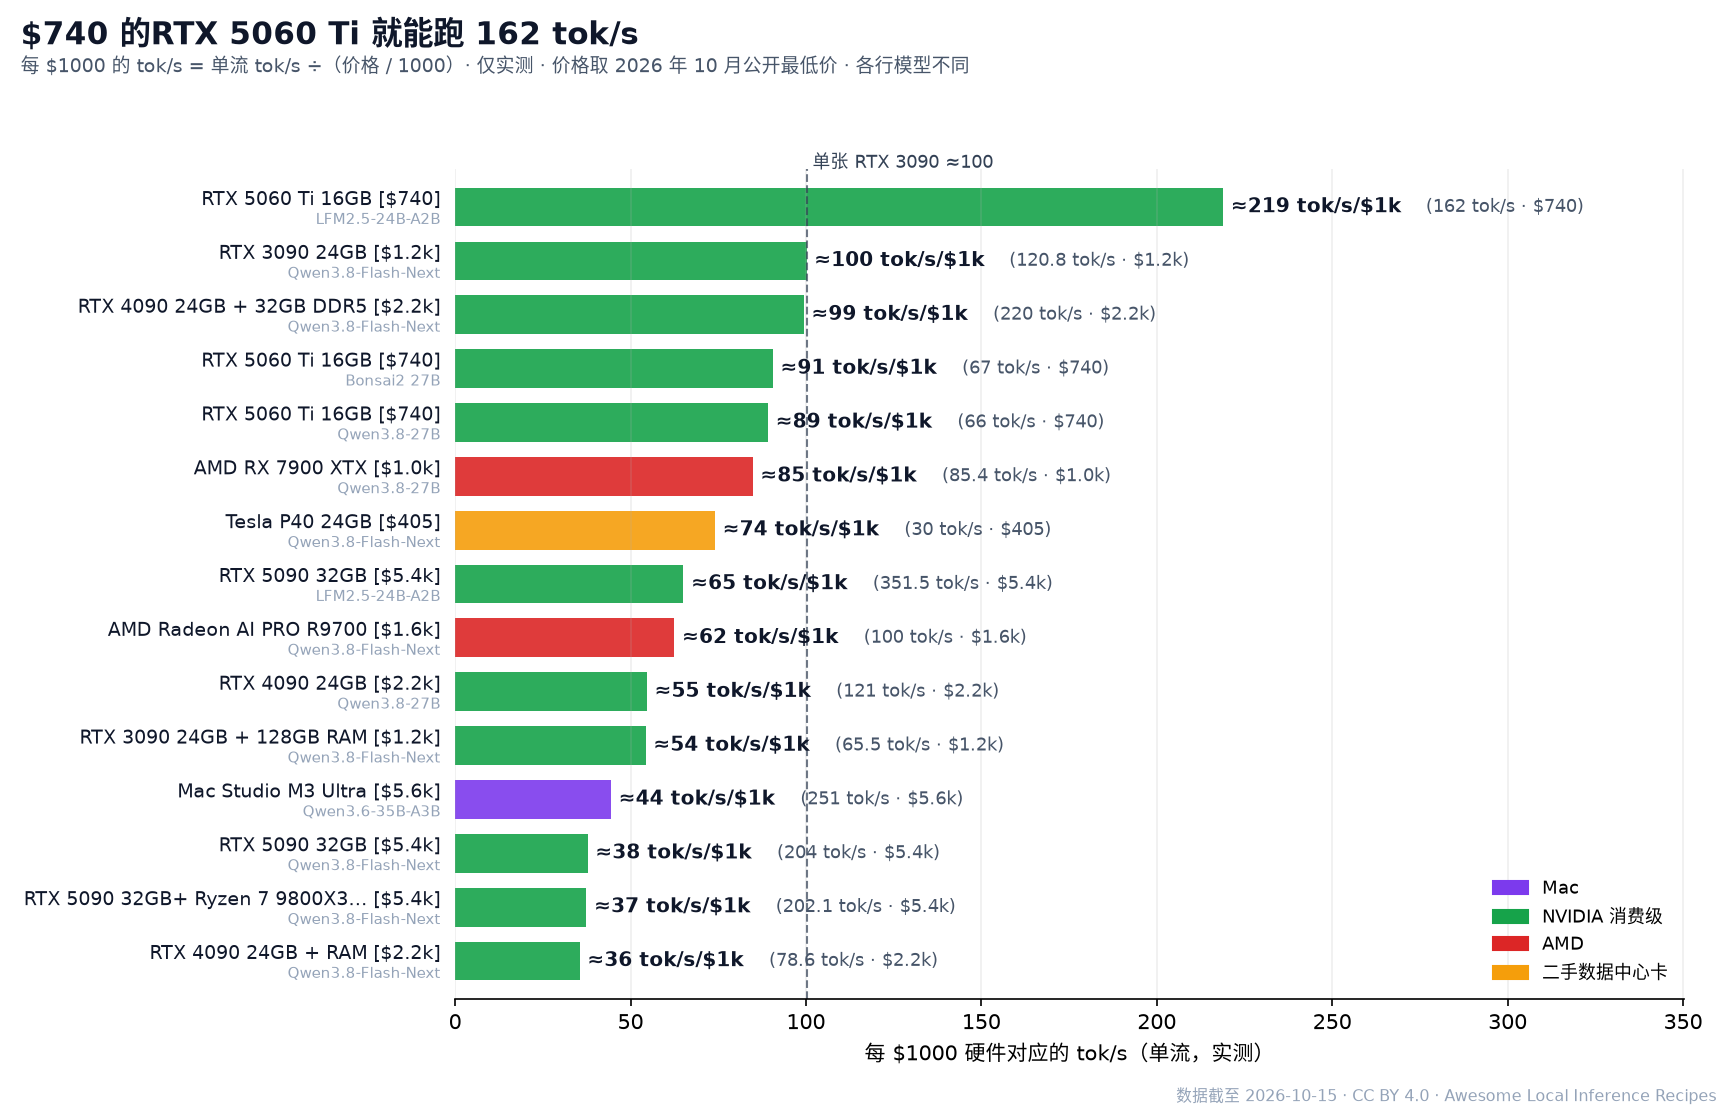
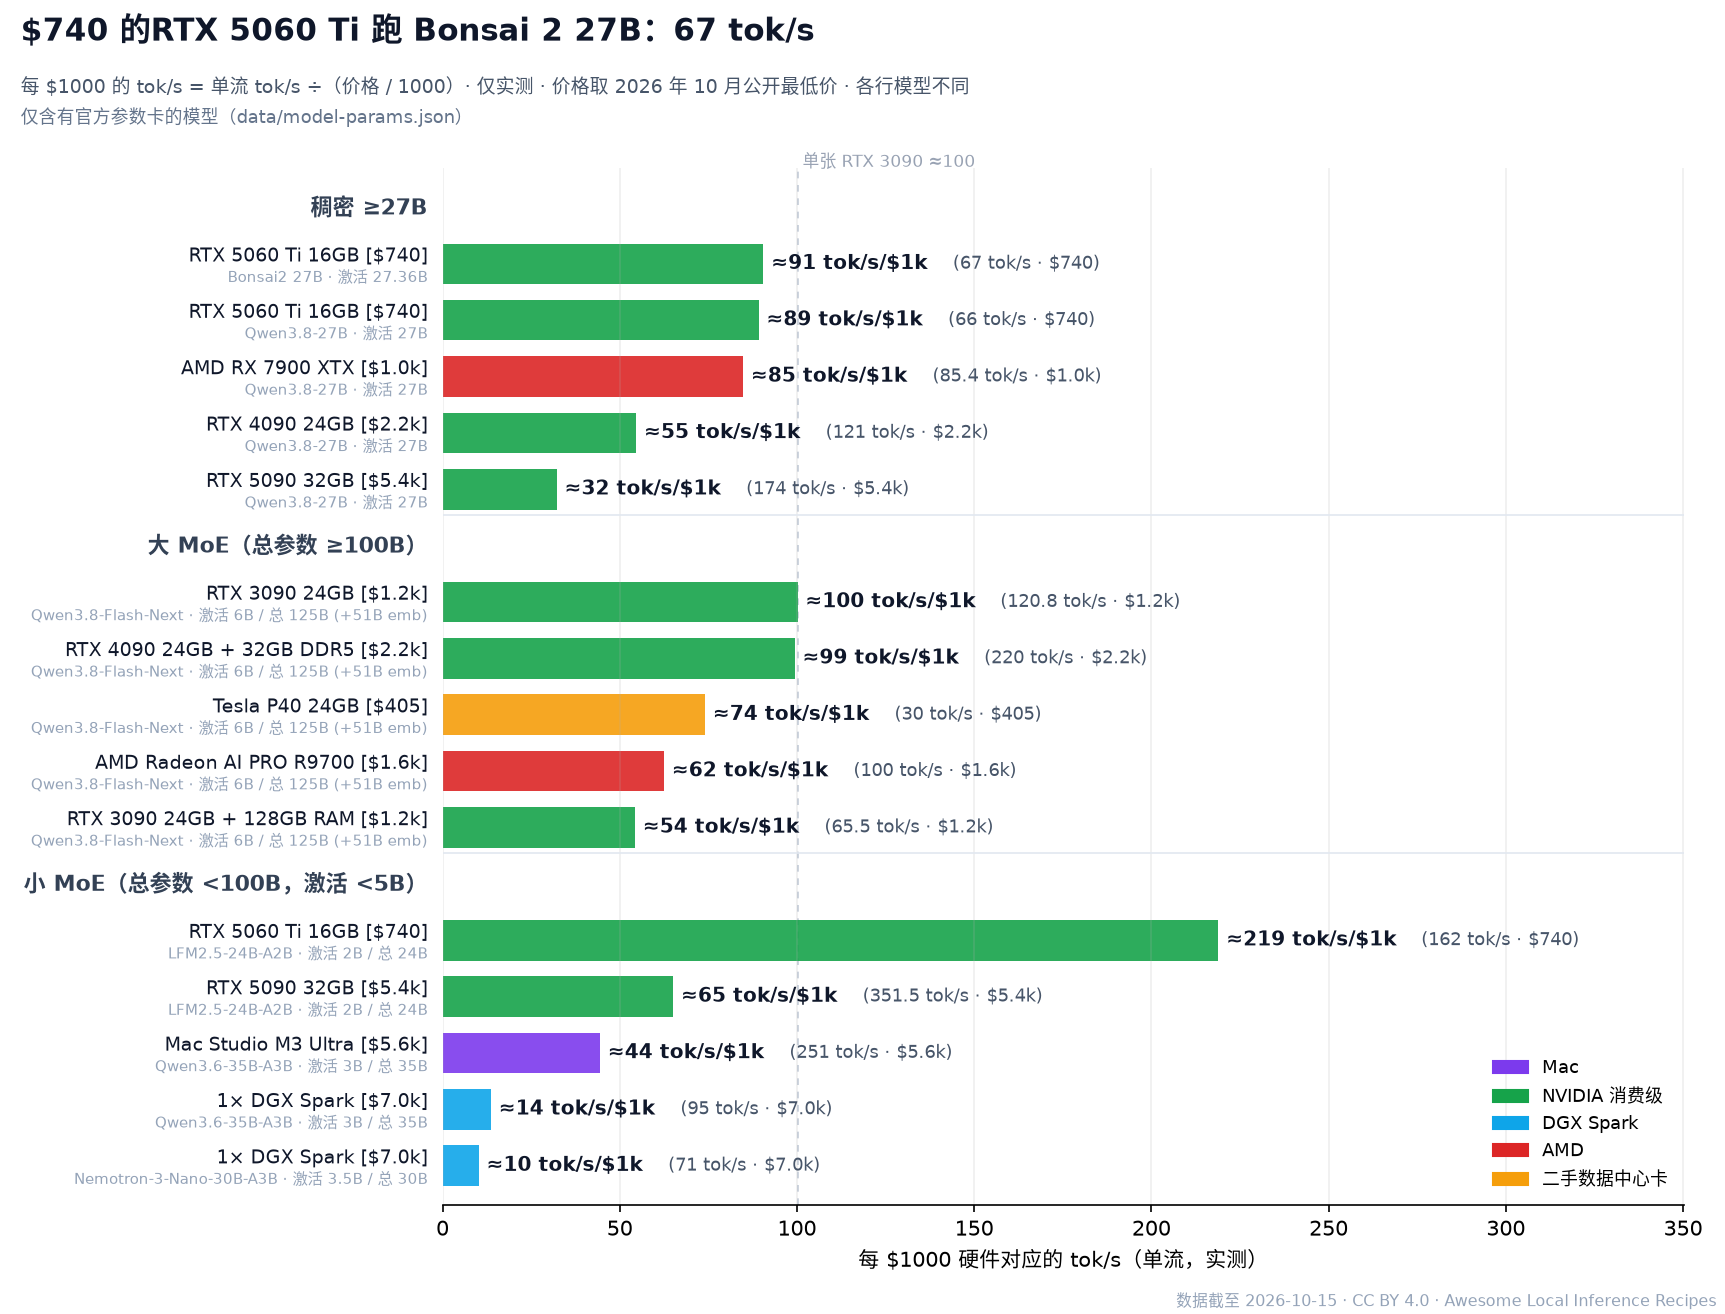
hero v4: group by model size with active params (data/model-params.json + test), title from Dense #1 with model name, Bonsai/REAP regex fixes, Mid MoE thresholds, official-cards note, Flash-Next 125B (+51B emb), baseline #b6c0cf α.8

Changed region(s): [[0.0, 0.1225, 1.0, 1.0], [0.0, 0.0, 0.553, 0.0919], [0.8296, 0.7045, 0.9217, 0.7351]]

diff --git a/scripts/gen_hero.py b/scripts/gen_hero.py
@@ -1,6 +1,6 @@
 #!/usr/bin/env python3
 """Render README charts (en / zh-CN / ja). Needs matplotlib + a CJK font (Noto Sans CJK) for zh/ja labels.
-- docs/hero{suf}.png          top 15 measured text setups ranked by tok/s per $1,000 of hardware
+- docs/hero{suf}.png          top measured text setups per model-size group (data/model-params.json), ranked by tok/s per $1,000 of hardware
 - docs/budget-tiers{suf}.png  fastest text setup per README budget tier (measured vs claimed)
 Data: text recipes with tok_s and hardware_cost_usd; deduped per hardware+model (measured preferred, then best tok/s).
 Not part of the CI up-to-date check (PNG bytes vary across matplotlib/font versions). Run: python3 scripts/gen_hero.py"""
@@ -56,32 +56,63 @@ HT={'en':dict(t='A {p} {u}{hw} runs {tok:g} tok/s',used='used ',
     'ja':dict(t='{p} の{u}{hw} で {tok:g} tok/s',used='中古 ',
       sub='$1,000 あたり tok/s = 1 ストリーム tok/s ÷（価格 / 1000）· 実測のみ · 2026 年 10 月の公開最安価格 · 行ごとにモデルは異なる',
       base='RTX 3090 1 枚 ≈{v:.0f}',note='データ時点 {d} · CC BY 4.0 · Awesome Local Inference Recipes')}
+PARAMS=json.load(open(R/'data/model-params.json'))['models']
+def params(r):
+    for m in PARAMS:
+        if re.search(m['match'],r['model']):
+            return None if m.get('exclude') and re.search(m['exclude'],r['model']) else m
+    return None
+def fmtb(x): return f"{x:g}B"
+GROUPS=[('dense',lambda m:m['arch']=='dense' and m['total_b']>=27),
+        ('big',lambda m:m['arch']=='moe' and m['total_b']>=100),
+        ('mid',lambda m:m['arch']=='moe' and m['total_b']<100 and m['active_b']>=5),
+        ('small',lambda m:m['arch']=='moe' and m['total_b']<100 and m['active_b']<5)]
+GT={'en':dict(dense='Dense ≥27B',big='Big MoE (≥100B total)',mid='Mid MoE (<100B total, ≥5B active)',small='Small MoE (<100B total, <5B active)',act='{a} active',tot='{a} active / {t} total',
+              t='{p} {u}{hw} runs {m} at {tok:g} tok/s',only='Only models with official parameter cards (data/model-params.json)'),
+    'zh-CN':dict(dense='稠密 ≥27B',big='大 MoE（总参数 ≥100B）',mid='中 MoE（总参数 <100B，激活 ≥5B）',small='小 MoE（总参数 <100B，激活 <5B）',act='激活 {a}',tot='激活 {a} / 总 {t}',
+              t='{p} 的{u}{hw} 跑 {m}：{tok:g} tok/s',only='仅含有官方参数卡的模型（data/model-params.json）'),
+    'ja':dict(dense='Dense ≥27B',big='大型 MoE（総パラメータ ≥100B）',mid='中型 MoE（総 <100B、アクティブ ≥5B）',small='小型 MoE（総 <100B、アクティブ <5B）',act='アクティブ {a}',tot='アクティブ {a} / 総 {t}',
+              t='{p} の{u}{hw} で {m} が {tok:g} tok/s',only='公式パラメータカードのあるモデルのみ（data/model-params.json）')}
+PER=5
 def hero(lang):
-    t=TX[lang]; h=HT[lang]
-    meas=[r for r in U if r['_m']]; top=sorted(meas,key=lambda r:(-r['_v'],r['id']))[:15]
-    first=top[0]; top=top[::-1]
-    fig,ax=plt.subplots(figsize=(11.5,7.4),dpi=150)
-    vmax=max(r['_v'] for r in top)
-    for i,r in enumerate(top):
-        ax.barh(i,r['_v'],color=FAM[r['hardware_family']],alpha=.9,height=.72)
-        ax.text(r['_v']+vmax*.01,i,f"≈{r['_v']:.0f} tok/s/$1k",va='center',fontsize=9.5,fontweight='bold',color='#0f172a')
-        ax.annotate(f"({r['tok_s']:g} tok/s · {money(r['hardware_cost_usd'])})",(r['_v']+vmax*.01,i),xytext=(len(f"≈{r['_v']:.0f} tok/s/$1k")*6.4+4,0),textcoords='offset points',va='center',fontsize=8.5,color='#475569')
-        ax.text(-.012,i+.13,f"{clean(r['hardware'],30)} [{money(r['hardware_cost_usd'])}]",transform=ax.get_yaxis_transform(),ha='right',va='center',fontsize=9.2,color='#0f172a')
-        ax.text(-.012,i-.24,clean(r['model'],34),transform=ax.get_yaxis_transform(),ha='right',va='center',fontsize=7.3,color='#94a3b8')
-    ax.set_yticks([]); ax.set_ylim(-.7,len(top)-.3)
+    t=TX[lang]; h=HT[lang]; g=GT[lang]
+    meas=[r for r in U if r['_m'] and params(r)]
+    rows=[]  # (kind, payload)
+    for key,ok in GROUPS:
+        rs=sorted([r for r in meas if ok(params(r))],key=lambda r:(-r['_v'],r['id']))[:PER]
+        if rs: rows.append(('h',g[key])); rows+= [('r',r) for r in rs]
+    dense=[x for k,x in rows if k=='r' and params(x)['arch']=='dense']
+    first=min(dense or [x for k,x in rows if k=='r'],key=lambda r:(-r['_v'],r['id']))
+    n=len(rows); H=1.2+.42*n; fig,ax=plt.subplots(figsize=(11.5,H),dpi=150)
+    vmax=max(x['_v'] for k,x in rows if k=='r')
+    for i,(k,x) in enumerate(rows):
+        y=n-1-i
+        if k=='h':
+            ax.text(-.012,y,x,transform=ax.get_yaxis_transform(),ha='right',va='center',fontsize=10.5,fontweight='bold',color='#334155')
+            if i: ax.axhline(y+.55,color='#e2e8f0',lw=.8)
+            continue
+        r=x; m=params(r)
+        ax.barh(y,r['_v'],color=FAM[r['hardware_family']],alpha=.9,height=.72)
+        ax.text(r['_v']+vmax*.01,y,f"≈{r['_v']:.0f} tok/s/$1k",va='center',fontsize=9.5,fontweight='bold',color='#0f172a')
+        ax.annotate(f"({r['tok_s']:g} tok/s · {money(r['hardware_cost_usd'])})",(r['_v']+vmax*.01,y),xytext=(len(f"≈{r['_v']:.0f} tok/s/$1k")*6.4+4,0),textcoords='offset points',va='center',fontsize=8.5,color='#475569')
+        ax.text(-.012,y+.13,f"{clean(r['hardware'],30)} [{money(r['hardware_cost_usd'])}]",transform=ax.get_yaxis_transform(),ha='right',va='center',fontsize=9.2,color='#0f172a')
+        pa=g['act'].format(a=fmtb(m['active_b'])) if m['arch']=='dense' else g['tot'].format(a=fmtb(m['active_b']),t=m.get('total_label') or fmtb(m['total_b']))
+        ax.text(-.012,y-.24,f"{clean(r['model'],26)} · {pa}",transform=ax.get_yaxis_transform(),ha='right',va='center',fontsize=7.3,color='#94a3b8')
+    ax.set_yticks([]); ax.set_ylim(-.7,n-.3)
     b=[r for r in meas if re.fullmatch(r'(单 )?RTX 3090( 24GB)?',clean(r['hardware'],80))]
     if b:
-        bv=max(r['_v'] for r in b); ax.axvline(bv,ls='--',lw=1,color='#334155',alpha=.7)
-        ax.text(bv,len(top)-.35,' '+h['base'].format(v=bv),fontsize=8.5,color='#334155',va='bottom')
+        bv=max(r['_v'] for r in b); ax.axvline(bv,ls=(0,(4,4)),lw=.8,color='#b6c0cf',alpha=.8,zorder=0)
+        ax.text(bv,n-.35,' '+h['base'].format(v=bv),fontsize=8,color='#98a2b3',va='bottom')
     ax.set_xlim(0,vmax*1.6); ax.set_xlabel(t['h_x'],fontsize=10)
     hw=clean(first['hardware'],40); hw=re.sub(r'^(单 )','',hw)
-    fig.suptitle(h['t'].format(p=money(first['hardware_cost_usd']),u=h['used'] if _used(first) else '',hw=re.sub(r' \d+GB$','',hw),tok=first['tok_s']),x=.012,y=.985,ha='left',fontsize=15,fontweight='bold',color='#0f172a')
-    fig.text(.012,.935,h['sub'],ha='left',fontsize=9,color='#475569')
-    fig.text(.995,.008,h['note'].format(d=_asof()),ha='right',fontsize=7.5,color='#94a3b8')
+    fig.suptitle(g['t'].format(p=money(first['hardware_cost_usd']),u=h['used'] if _used(first) else '',hw=re.sub(r' \d+GB$','',hw),m=params(first)['label'],tok=first['tok_s']),x=.012,y=.99,ha='left',fontsize=15,fontweight='bold',color='#0f172a')
+    fig.text(.012,1-.62/H,h['sub'],ha='left',fontsize=9,color='#475569')
+    fig.text(.012,1-.82/H,g['only'],ha='left',fontsize=8.5,color='#64748b')
+    fig.text(.995,.006,h['note'].format(d=_asof()),ha='right',fontsize=7.5,color='#94a3b8')
     style(ax); ax.spines['left'].set_visible(False); ax.grid(axis='x',alpha=.2)
-    fams=[k for k in FAM if any(r['hardware_family']==k for r in top)]
+    fams=[k for k in FAM if any(x['hardware_family']==k for kk,x in rows if kk=='r')]
     ax.legend(handles=[Patch(color=FAM[k],label=t['fam'][k]) for k in fams],frameon=False,loc='lower right',fontsize=8.5,ncol=1)
-    fig.tight_layout(rect=(0,.02,1,.935))
+    fig.tight_layout(rect=(0,.015,1,1-.9/H)); fig.subplots_adjust(top=1-1.12/H)
     return fig
 def tiers(lang):
     t=TX[lang]; fig,ax=plt.subplots(figsize=(11,5.4),dpi=150); y=0; ticks=[]; xmax=0; used=set()

diff --git a/scripts/gen_readme.py b/scripts/gen_readme.py
@@ -104,7 +104,7 @@ HL = {
    hd='### Headline numbers', th='| Record | Model · engine | Hardware | Result | Source |',
    lab={'mac':'Fastest on a Mac','5090':'Fastest on one RTX 5090','amd':'Fastest on AMD','dc':'Used datacenter GPUs','spark':'Fastest on one DGX Spark','cheap':'Cheapest rig in the list'},
    note='Single-stream generation speed, copied from each source; prices are the lowest published hardware price. ✅ = measured by the poster.',
-   alt='Bar chart: top 15 measured text setups ranked by tok/s per $1,000 of hardware, colored by hardware family', cost='≈ ${c:,}'),
+   alt='Bar chart: top measured text setups per model-size group (dense ≥27B; big MoE ≥100B total; mid MoE <100B total, ≥5B active; small MoE <100B total, <5B active; with active parameters; only models with official parameter cards), ranked by tok/s per $1,000 of hardware, colored by hardware family', cost='≈ ${c:,}'),
  'zh': dict(h1='本地推理配方精选', tag='你的硬件到底能跑多快？{n} 条有出处的本地 AI 配方，从 {lo:,} 美元的显卡到 3 万美元的整机。',
    lang='<a href="README.md">English</a> · <b>简体中文</b> · <a href="README.ja.md">日本語</a>',
    nav=[('在线配方库','explore.html'),('配方指南','recipes/README.zh-CN.md'),('入门指南','docs/getting-started.zh-CN.md'),('提交配方','submit.html')],
@@ -112,7 +112,7 @@ HL = {
    hd='### 亮点数据', th='| 记录 | 模型 · 引擎 | 硬件 | 结果 | 来源 |',
    lab={'mac':'Mac 最快','5090':'单张 RTX 5090 最快','amd':'AMD 最快','dc':'二手数据中心卡','spark':'单台 DGX Spark 最快','cheap':'最便宜的配置'},
    note='单路生成速度，均摘自来源；价格为公开的最低硬件价格。✅ = 发帖人实测。',
-   alt='条形图：按每 $1000 硬件对应 tok/s 排名的实测文字配置前 15 名，按硬件类别着色', cost='约 ${c:,}'),
+   alt='条形图：按模型规模分组（稠密 ≥27B；大 MoE 总参数 ≥100B；中 MoE 总参数 <100B、激活 ≥5B；小 MoE 激活 <5B；标注激活参数；仅含有官方参数卡的模型），按每 $1000 硬件对应 tok/s 排名的实测文字配置，按硬件类别着色', cost='约 ${c:,}'),
  'ja': dict(h1='ローカル推論レシピ集', tag='あなたのハードウェアで、実際どれくらいの速度が出る？出典付きのローカル AI レシピ {n} 件。{lo:,} ドルの GPU から 3 万ドルの構成まで。',
    lang='<a href="README.md">English</a> · <a href="README.zh-CN.md">简体中文</a> · <b>日本語</b>',
    nav=[('エクスプローラー','explore.html'),('レシピガイド','recipes/README.ja.md'),('はじめに','docs/getting-started.ja.md'),('レシピを投稿','submit.html')],
@@ -120,7 +120,7 @@ HL = {
    hd='### 注目の記録', th='| 記録 | モデル · エンジン | ハードウェア | 結果 | 出典 |',
    lab={'mac':'Mac で最速','5090':'RTX 5090 1 枚で最速','amd':'AMD で最速','dc':'中古データセンター GPU','spark':'DGX Spark 1 台で最速','cheap':'いちばん安い構成'},
    note='1 ストリームの生成速度で、いずれも出典からの引用です。価格は公開されている最安のハードウェア価格。✅ = 投稿者本人の実測。',
-   alt='棒グラフ：ハードウェア $1,000 あたりの tok/s で並べた実測テキスト構成トップ 15（ハードウェア分類で色分け）', cost='約 {c:,} ドル'),
+   alt='棒グラフ：モデル規模別（Dense ≥27B・大型 MoE 総 ≥100B・中型 MoE 総 <100B／アクティブ ≥5B・小型 MoE アクティブ <5B、アクティブパラメータ表示、公式パラメータカードのあるモデルのみ）に、ハードウェア $1,000 あたりの tok/s で並べた実測テキスト構成（ハードウェア分類で色分け）', cost='約 {c:,} ドル'),
 }
 PNOTE = {'x-006':{'en':'card only, excl. 256GB RAM','zh':'仅显卡，不含 256GB 内存','ja':'GPU のみ、256GB RAM 別'},
  'text-113':{'en':'base config price; test machine memory not stated','zh':'起步配置价格，原帖未注明测试机内存','ja':'最小構成価格、検証機のメモリは不明'}}

diff --git a/tests/test_model_params.py b/tests/test_model_params.py
@@ -1,0 +1,30 @@
+import json, re, unittest
+from pathlib import Path
+R = Path(__file__).resolve().parent.parent
+class ModelParams(unittest.TestCase):
+    def setUp(self):
+        self.P = json.loads((R / 'data/model-params.json').read_text())['models']
+        self.D = json.loads((R / 'data/recipes.json').read_text())
+    def match(self, model):
+        for m in self.P:
+            if re.search(m['match'], model):
+                return None if m.get('exclude') and re.search(m['exclude'], model) else m
+    def test_fields(self):
+        for m in self.P:
+            self.assertIn(m['arch'], ('dense', 'moe'), m['label'])
+            self.assertTrue(m['source'].startswith('https://huggingface.co/'), m['label'])
+            self.assertGreater(m['total_b'], 0); self.assertGreater(m['active_b'], 0)
+            self.assertLessEqual(m['active_b'], m['total_b'], m['label'])
+            if m['arch'] == 'dense': self.assertEqual(m['active_b'], m['total_b'], m['label'])
+            re.compile(m['match']); m.get('exclude') and re.compile(m['exclude'])
+    def test_known_traps(self):
+        self.assertIsNone(self.match('Bonsai 27B 1-bit'))
+        self.assertIsNone(self.match('DeepSeek-V4.1-Flash（REAP 256 专家剪枝）'))
+        self.assertEqual(self.match('Bonsai2 27B')['label'], 'Bonsai 2 27B')
+        self.assertEqual(self.match('DeepSeek-V4-Flash (0731)')['label'], 'DeepSeek-V4-Flash')
+    def test_hero_rows_covered_or_listed(self):
+        # every measured priced text row either maps to a card or is knowingly excluded
+        miss = sorted({r['model'] for r in self.D if r['category'] == 'text' and r['tok_s'] and r['hardware_cost_usd']
+                       and r['source_level'] == '实测' and not self.match(r['model'])})
+        self.assertTrue(all(re.search(r'REAP', m) for m in miss), miss)
+if __name__ == '__main__': unittest.main()

diff --git a/README.ja.md b/README.ja.md
@@ -8,7 +8,7 @@
 
 <p align="center"><a href="https://raytone-lab.github.io/Awesome-local-inference-recipe/explore.html"><b>エクスプローラー</b></a> · <a href="recipes/README.ja.md"><b>レシピガイド</b></a> · <a href="docs/getting-started.ja.md"><b>はじめに</b></a> · <a href="https://raytone-lab.github.io/Awesome-local-inference-recipe/submit.html"><b>レシピを投稿</b></a></p>
 
-<p align="center"><img src="docs/hero.ja.png" width="860" alt="棒グラフ：ハードウェア $1,000 あたりの tok/s で並べた実測テキスト構成トップ 15（ハードウェア分類で色分け）"></p>
+<p align="center"><img src="docs/hero.ja.png" width="860" alt="棒グラフ：モデル規模別（Dense ≥27B・大型 MoE 総 ≥100B・中型 MoE 総 <100B／アクティブ ≥5B・小型 MoE アクティブ <5B、アクティブパラメータ表示、公式パラメータカードのあるモデルのみ）に、ハードウェア $1,000 あたりの tok/s で並べた実測テキスト構成（ハードウェア分類で色分け）"></p>
 
 ### X tok/s ってどれくらい速い？
 

diff --git a/README.zh-CN.md b/README.zh-CN.md
@@ -8,7 +8,7 @@
 
 <p align="center"><a href="https://raytone-lab.github.io/Awesome-local-inference-recipe/explore.html"><b>在线配方库</b></a> · <a href="recipes/README.zh-CN.md"><b>配方指南</b></a> · <a href="docs/getting-started.zh-CN.md"><b>入门指南</b></a> · <a href="https://raytone-lab.github.io/Awesome-local-inference-recipe/submit.html"><b>提交配方</b></a></p>
 
-<p align="center"><img src="docs/hero.zh-CN.png" width="860" alt="条形图：按每 $1000 硬件对应 tok/s 排名的实测文字配置前 15 名，按硬件类别着色"></p>
+<p align="center"><img src="docs/hero.zh-CN.png" width="860" alt="条形图：按模型规模分组（稠密 ≥27B；大 MoE 总参数 ≥100B；中 MoE 总参数 <100B、激活 ≥5B；小 MoE 激活 <5B；标注激活参数；仅含有官方参数卡的模型），按每 $1000 硬件对应 tok/s 排名的实测文字配置，按硬件类别着色"></p>
 
 ### X tok/s 到底有多快？
 

diff --git a/README.md b/README.md
@@ -8,7 +8,7 @@
 
 <p align="center"><a href="https://raytone-lab.github.io/Awesome-local-inference-recipe/explore.html"><b>Explore live</b></a> · <a href="recipes/README.md"><b>Recipe guides</b></a> · <a href="docs/getting-started.md"><b>Getting started</b></a> · <a href="https://raytone-lab.github.io/Awesome-local-inference-recipe/submit.html"><b>Submit a recipe</b></a></p>
 
-<p align="center"><img src="docs/hero.png" width="860" alt="Bar chart: top 15 measured text setups ranked by tok/s per $1,000 of hardware, colored by hardware family"></p>
+<p align="center"><img src="docs/hero.png" width="860" alt="Bar chart: top measured text setups per model-size group (dense ≥27B; big MoE ≥100B total; mid MoE <100B total, ≥5B active; small MoE <100B total, <5B active; with active parameters; only models with official parameter cards), ranked by tok/s per $1,000 of hardware, colored by hardware family"></p>
 
 ### How fast is X tok/s?
 
